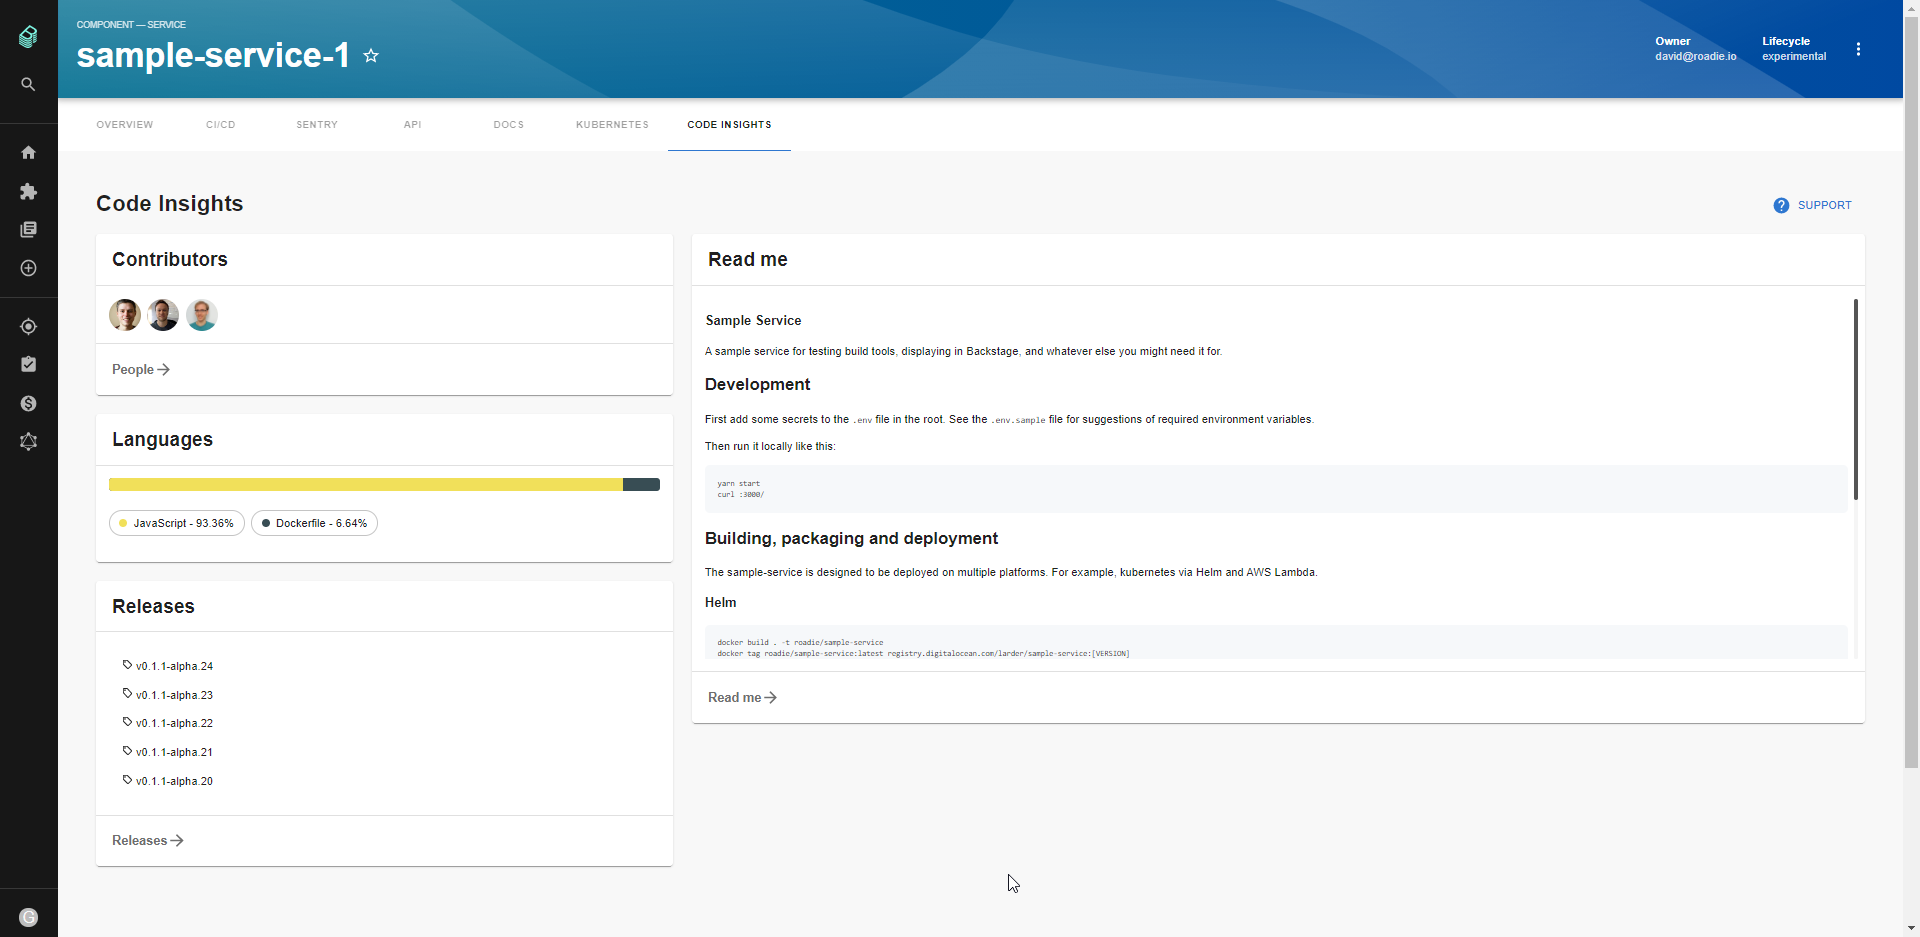
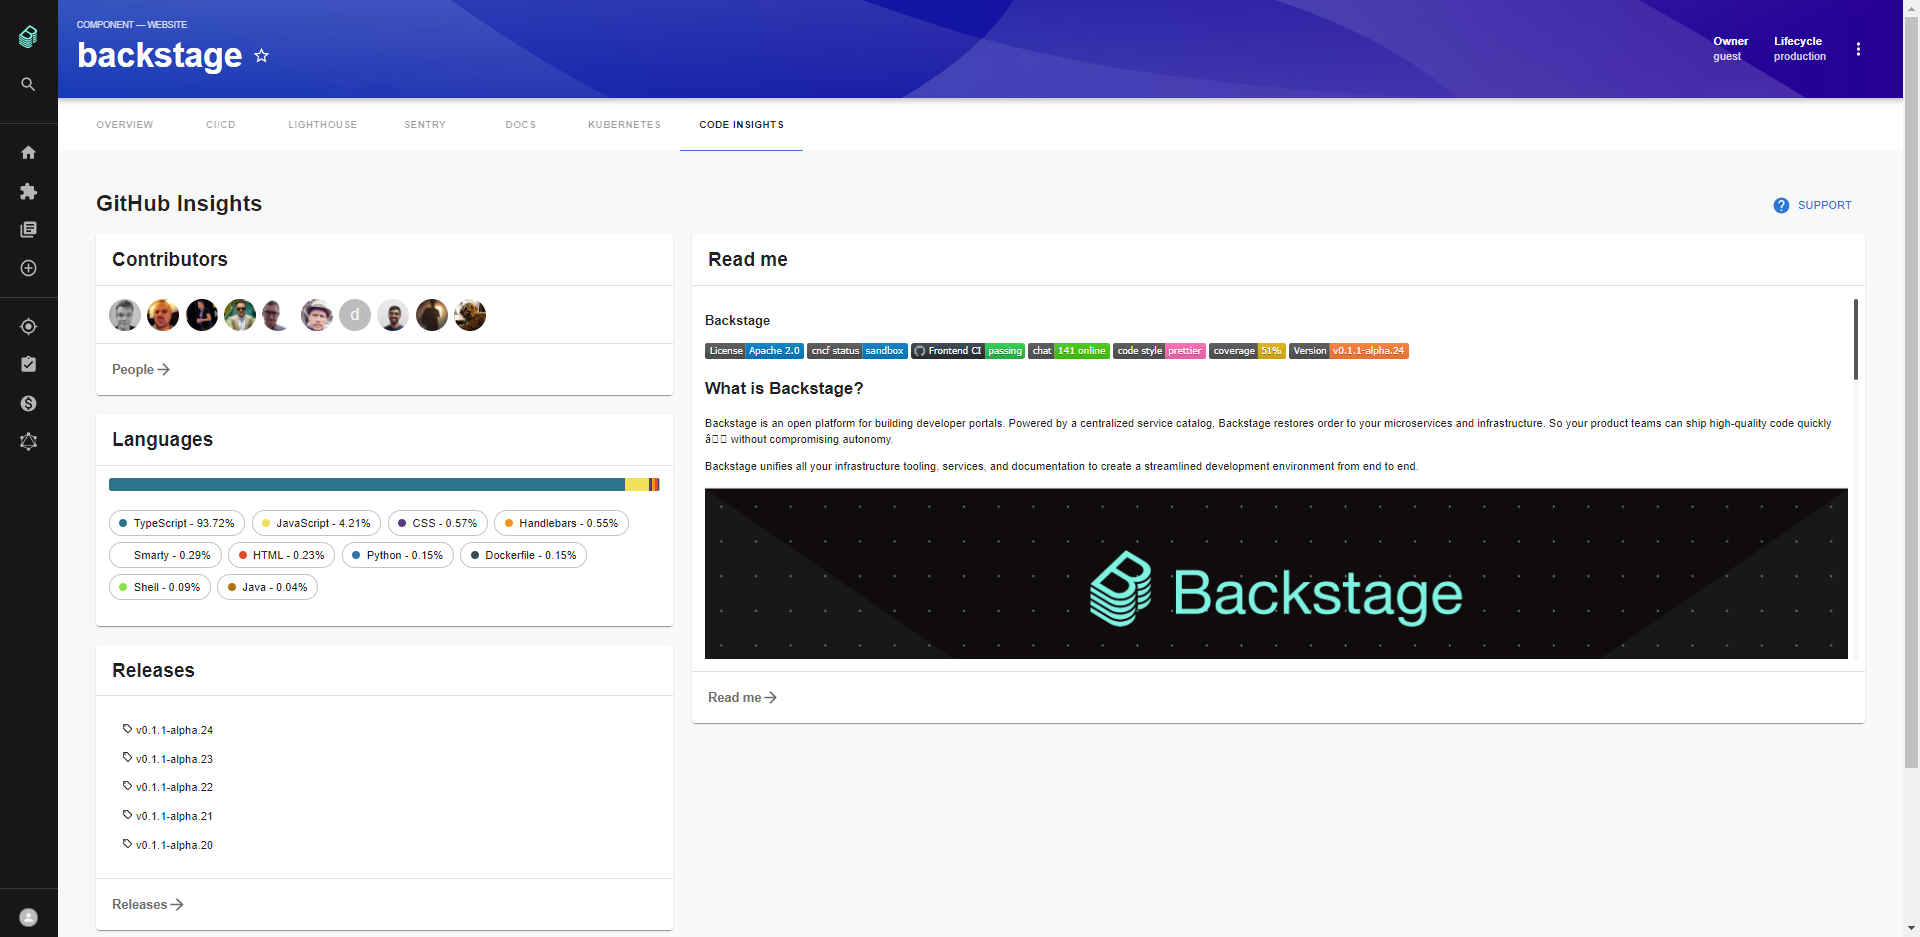
feat: update readme, export function and update screnshoot

diff --git a/src/index.ts b/src/index.ts
@@ -15,5 +15,5 @@
  */
 
 export { plugin } from './plugin';
-export { Router } from './components/Router';
+export { Router, isPluginApplicableToEntity } from './components/Router';
 export * from './components/Widgets';

diff --git a/README.md b/README.md
@@ -1,4 +1,4 @@
-# Code Inights Plugin for Backstage
+# GitHub Inights Plugin for Backstage
 
 ![a preview of the code insights plugin](https://raw.githubusercontent.com/RoadieHQ/backstage-plugin-code-insights/main/docs/code-insights-plugin.png)
 
@@ -7,21 +7,21 @@
 1. If you have standalone app (you didn't clone this repo), then do
 
 ```bash
-yarn add @roadiehq/backstage-plugin-code-insights
+yarn add @roadiehq/backstage-plugin-github-insights
 ```
 
 2. Add plugin to the list of plugins:
 
 ```ts
 // packages/app/src/plugins.ts
-export { plugin as CodeInsights } from '@roadiehq/backstage-plugin-code-insights';
+export { plugin as GitHubInsights } from '@roadiehq/backstage-plugin-github-insights';
 ```
 
 3. Add plugin API to your Backstage instance:
 
 ```ts
 // packages/app/src/components/catalog/EntityPage.tsx
-import { Router as CodeInsightsRouter } from '@roadiehq/backstage-plugin-code-insights';
+import { Router as GitHubInsightsRouter } from '@roadiehq/backstage-plugin-github-insights';
 
 ...
 
@@ -31,7 +31,7 @@ const ServiceEntityPage = ({ entity }: { entity: Entity }) => (
     <EntityPageLayout.Content
       path="/code-insights"
       title="Code Insights"
-      element={<CodeInsightsRouter entity={entity} />}
+      element={<GitHubInsightsRouter entity={entity} />}
     />
   </EntityPageLayout>
 ```
@@ -46,7 +46,7 @@ const ServiceEntityPage = ({ entity }: { entity: Entity }) => (
 
 ```ts
 // packages/app/src/components/catalog/EntityPage.tsx
-import { ContributorsCard, LanguagesCard, ReadMeCard, ReleasesCard } from '@roadiehq/backstage-plugin-code-insights';
+import { ContributorsCard, LanguagesCard, ReadMeCard, ReleasesCard } from '@roadiehq/backstage-plugin-github-insights';
 
 ...
 
@@ -68,7 +68,7 @@ const OverviewContent = ({ entity }: { entity: Entity }) => (
 
 ## Features
 
-- Add Code Insights plugin tab.
+- Add GitHub Insights plugin tab.
 - Show widgets about repository contributors, languages, readme and release at overview page.
 
 ## Links
